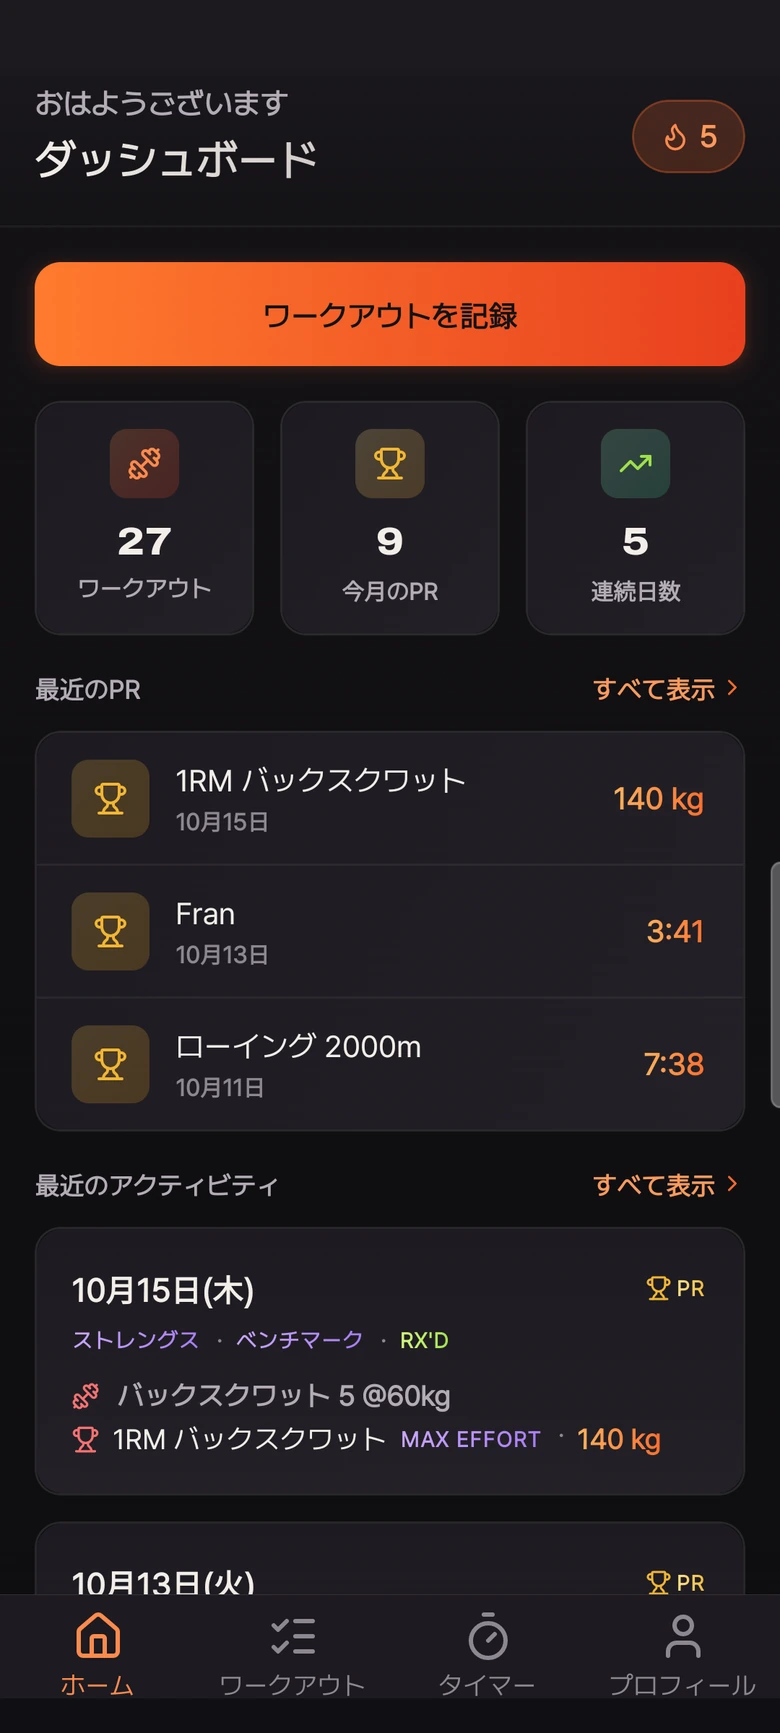
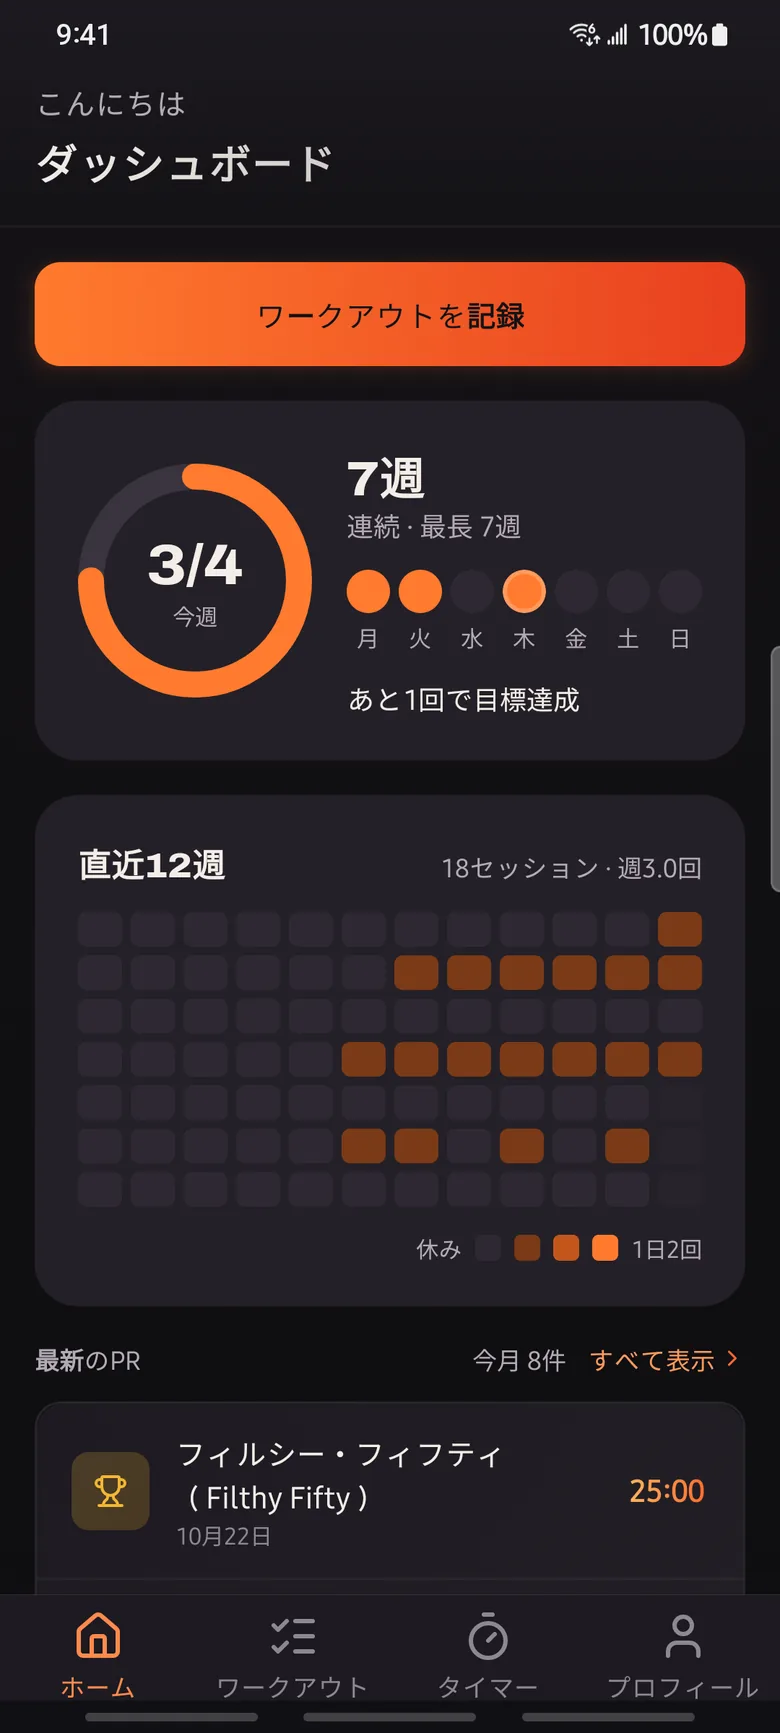
Site: Log Workout rename, cards for the features that shipped, new screens (#3)
* site: Log Workout rename (app 911); feature cards for lift goals, body weight, % of 1RM, data files, crash reports + Erase, movement icons; new home / timer / PR Book screens (smida 699)

Claude-Session: https://claude.ai/code/session_01WsQYTr48SZW4wHBP9qM4uf

* fix: PR 3 review: reword the Your call crash-report line (en/ja/ko); quick-log screenshots show Log Workout with Helen, alt text says Helen

Claude-Session: https://claude.ai/code/session_01WsQYTr48SZW4wHBP9qM4uf

---------

diff --git a/src/i18n/ui.ts b/src/i18n/ui.ts
@@ -95,6 +95,12 @@ const en: Dict = {
       { title: 'PR history', body: 'Every lift and every benchmark, with your best result on top.' },
       { title: 'Offline, on your device', body: 'No account, no server. Your log works without signal and stays yours.' },
       { title: 'Share result cards', body: 'Turn a result into a card for your story in one tap.' },
+      { title: 'Lift goals', body: 'Set a target for a lift and see how close your PR is. A lift you have not tested in 6 months gets a retest note.' },
+      { title: 'Body weight', body: 'Log your body weight and follow the trend.' },
+      { title: 'Loads as a % of 1RM', body: "Enter a load as a percentage of a 1RM, even another lift's." },
+      { title: 'Your data, as files', body: 'Export a backup (settings included) or a CSV for a spreadsheet, and save either straight to your phone.' },
+      { title: 'Your call', body: 'You can turn crash reports off in Settings; they never include your workouts. Erase all data wipes everything Smida keeps on the phone.' },
+      { title: 'Movement icons', body: 'Every movement has an icon, so a long workout is easy to scan.' },
       { title: 'English, 日本語, 한국어', body: 'The app and this site in three languages.' },
     ],
   },
@@ -115,12 +121,12 @@ const en: Dict = {
     bug: { title: 'Report a bug', body: 'Include your phone model, the app version and what you tapped right before.', link: 'Send a bug report' },
     faqHeading: 'Common questions',
     faq: [
-      { q: 'Which timers does Smida have?', a: 'For Time (with an optional time cap), AMRAP, EMOM (every minute, or every N:NN such as every 2:30), Tabata and Death By. Each starts with a count-in. When a timer finishes, tap Log Result to open Quick Log with what the timer knows already filled in: your time for For Time, your rounds for AMRAP, the minutes you completed for Death By. EMOM and Tabata open with the score blank for you to enter.' },
+      { q: 'Which timers does Smida have?', a: 'For Time (with an optional time cap), AMRAP, EMOM (every minute, or every N:NN such as every 2:30), Tabata and Death By. Each starts with a count-in. When a timer finishes, tap Log Result to open Log Workout with what the timer knows already filled in: your time for For Time, your rounds for AMRAP, the minutes you completed for Death By. EMOM and Tabata open with the score blank for you to enter.' },
       { q: "Why isn't my result counting as a PR?", a: 'A workout PR only comes from a result linked to a benchmark or a saved workout. If you logged it without a link, open the session, tap Edit, choose the workout and save: it then counts toward your PR Book. Team results (Team of 2 or 3) are kept out of your solo PRs. Lift PRs come straight from the sets you log.' },
       { q: 'What do RX+, RX and Scaled mean here?', a: "They're the scale you did the workout at. RX is as prescribed; RX+ is heavier or harder; Scaled is anything adjusted down. PRs are kept separately for each scale." },
       { q: 'Can I edit or delete a session?', a: 'Yes. Open the session from Home or All Activity, then tap Edit to change it, or Delete Session at the bottom to remove it.' },
-      { q: 'How do I delete my account or my data?', a: "There is no account. Your data lives only on your phone and is never sent to a server, so deleting the app deletes it. Backup files you exported are yours: they stay wherever you saved them until you delete them." },
-      { q: 'How do I back up or move my data?', a: 'Export a backup file from the app and save it wherever you like, for example your own cloud drive. Import that file on your new phone.' },
+      { q: 'How do I delete my account or my data?', a: "There is no account. Your data lives only on your phone and is never sent to a server, so deleting the app deletes it. To wipe it and keep the app, use Settings → Erase all data. Backup files you exported are yours: they stay wherever you saved them until you delete them." },
+      { q: 'How do I back up or move my data?', a: 'Export a backup file from the app (your settings come with it) and save it wherever you like, for example your own cloud drive. Import that file on your new phone.' },
       { q: 'How do I join the beta?', a: 'Email <a href="mailto:hello@smida.fit?subject=Smida%20beta">hello@smida.fit</a> and tell us whether you use iPhone or Android. The beta starts at our own box.' },
     ],
   },
@@ -132,11 +138,11 @@ const en: Dict = {
     joinNote: 'iPhone and Android · Tell us which one you use.',
     screensLabel: 'App screens',
     shots: 'Screens from the current build',
-    chips: { home: 'Home', timer: 'Timer', 'quick-log': 'Quick Log', prbook: 'PR Book', open: 'Open' },
+    chips: { home: 'Home', timer: 'Timer', 'quick-log': 'Log Workout', prbook: 'PR Book', open: 'Open' },
     alt: {
-      home: 'Smida home screen: Log Workout, recent PRs and recent activity',
+      home: 'Smida home screen: Log Workout, the weekly goal and streak, the last 12 weeks and latest PRs',
       timer: 'The AMRAP timer running, with the round counter',
-      'quick-log': 'Quick Log for Fran: movements, scale and score',
+      'quick-log': 'Log Workout for Helen: movements, scale and score',
       prbook: 'The PR Book: lifts with their best loads',
       open: 'Open workouts grouped by year, with scores',
     },
@@ -147,7 +153,7 @@ const en: Dict = {
         tags: [{ t: 'For Time', g: 'time' }, { t: 'AMRAP', g: 'amrap' }, { t: 'EMOM', g: 'emom' }, { t: 'Tabata', g: 'tabata' }, { t: 'Death By' }],
       },
       {
-        key: 'quick-log', kicker: '02 · Quick Log', title: 'Log it before the chalk dries.',
+        key: 'quick-log', kicker: '02 · Log Workout', title: 'Log it before the chalk dries.',
         body: 'Score, scale and status in a few taps: RX+, RX or Scaled, with your loads and notes. Link the result to a benchmark and it counts toward your PRs.',
         tags: [{ t: 'RX+' }, { t: 'RX', g: 'rx' }, { t: 'Scaled' }],
       },
@@ -227,6 +233,12 @@ const ja: Dict = {
       { title: '自己ベストの履歴', body: 'リフトもベンチマークも、いちばん良い記録が一番上に。' },
       { title: 'オフラインで動く', body: 'アカウントもサーバーもなし。電波がなくても使えて、記録は自分の手元に残ります。' },
       { title: '記録カードでシェア', body: 'ワンタップで、結果がストーリー用のカードに。' },
+      { title: 'リフトの目標', body: 'リフトごとに目標を決めれば、自己ベストまであとどれくらいかがわかります。6か月測っていないリフトには、再テストの合図が出ます。' },
+      { title: '体重の記録', body: '体重を記録して、推移を確認できます。' },
+      { title: '1RMの%で重量を', body: '重量は1RMの%で入力できます。別のリフトの1RMを基準にしてもOK。' },
+      { title: 'データはファイルで手元に', body: 'バックアップは設定ごと書き出せます。表計算用のCSVも。どちらもスマホに直接保存できます。' },
+      { title: '決めるのは自分', body: 'クラッシュレポートは設定でオフにできます。ワークアウトの内容は含まれません。「すべてのデータを消去」で、Smidaが端末に残したデータを丸ごと消せます。' },
+      { title: '種目アイコン', body: '種目ごとにアイコンがあるので、長いメニューもひと目で追えます。' },
       { title: '日本語・English・한국어', body: 'アプリもこのサイトも、3つの言語で使えます。' },
     ],
   },
@@ -247,12 +259,12 @@ const ja: Dict = {
     bug: { title: 'バグの報告', body: 'スマホの機種、アプリのバージョン、直前に何をタップしたかを添えてもらえると助かります。', link: 'バグを報告する' },
     faqHeading: 'よくある質問',
     faq: [
-      { q: 'どんなタイマーがありますか？', a: 'For Time（タイムキャップも設定可）、AMRAP、EMOM（毎分のほか「2:30ごと」のような間隔も）、Tabata、デスバイの5種類です。どれもカウントインから始まります。終わったら「結果を記録」をタップすると、タイマーでわかっている分が入力された状態でクイックログが開きます。For Timeはタイム、AMRAPはラウンド数、デスバイはクリアできた分数。EMOMとTabataはスコアが空欄のまま開くので、自分で入力してください。' },
+      { q: 'どんなタイマーがありますか？', a: 'For Time（タイムキャップも設定可）、AMRAP、EMOM（毎分のほか「2:30ごと」のような間隔も）、Tabata、デスバイの5種類です。どれもカウントインから始まります。終わったら「結果を記録」をタップすると、タイマーでわかっている分が入力された状態で「ワークアウトを記録」画面が開きます。For Timeはタイム、AMRAPはラウンド数、デスバイはクリアできた分数。EMOMとTabataはスコアが空欄のまま開くので、自分で入力してください。' },
       { q: '結果が自己ベストにならないのはなぜ？', a: 'WODの自己ベストになるのは、ベンチマークか保存したワークアウトにリンクした結果だけです。リンクせずに記録したときは、セッションを開いて「編集」をタップし、ワークアウトを選んで保存してください。そこからPRブックに反映されます。チーム（2人・3人）での結果は、個人の自己ベストには含まれません。リフトの自己ベストは、記録したセットからそのまま計算されます。' },
       { q: 'RX+・RX・スケールの違いは？', a: 'そのWODをどの強度でやったかを表します。RXは指定どおり、RX+は指定より重い・難しい内容、スケールは重量や動きを調整した場合です。自己ベストはスケールごとに別々に残ります。' },
       { q: 'セッションを編集・削除するには？', a: 'ホームか「すべてのアクティビティ」からセッションを開き、「編集」で修正できます。消したいときは、画面のいちばん下にある「セッションを削除」から。' },
-      { q: 'アカウントやデータを削除したい', a: 'Smidaにはアカウントがありません。データはスマホの中にしかなく、どこかのサーバーに送られることもないので、アプリを削除すればデータも一緒に消えます。書き出したバックアップファイルはご自身で保存したものなので、不要になったらそのファイルを削除してください。' },
-      { q: 'バックアップや機種変更は？', a: 'アプリからバックアップファイルを書き出して、好きな場所（自分のクラウドストレージなど）に保存しておきます。新しいスマホでそのファイルを読み込めば、元どおりです。' },
+      { q: 'アカウントやデータを削除したい', a: 'Smidaにはアカウントがありません。データはスマホの中にしかなく、どこかのサーバーに送られることもないので、アプリを削除すればデータも一緒に消えます。アプリは残してデータだけ消したいときは、設定の「すべてのデータを消去」から。書き出したバックアップファイルはご自身で保存したものなので、不要になったらそのファイルを削除してください。' },
+      { q: 'バックアップや機種変更は？', a: 'アプリからバックアップファイル（設定も含みます）を書き出して、好きな場所（自分のクラウドストレージなど）に保存しておきます。新しいスマホでそのファイルを読み込めば、元どおりです。' },
       { q: 'ベータに参加するには？', a: '<a href="mailto:hello@smida.fit?subject=Smida%20beta">hello@smida.fit</a> に、iPhoneとAndroidのどちらを使っているかを書いて送ってください。ベータは、まず開発者が通うボックスから始めています。' },
     ],
   },
@@ -264,11 +276,11 @@ const ja: Dict = {
     joinNote: 'iPhone / Android · お使いの機種をひと言添えてください',
     screensLabel: 'アプリの画面',
     shots: '開発中ビルドの実際の画面',
-    chips: { home: 'ホーム', timer: 'タイマー', 'quick-log': 'クイックログ', prbook: 'PRブック', open: 'オープン' },
+    chips: { home: 'ホーム', timer: 'タイマー', 'quick-log': 'ワークアウトを記録', prbook: 'PRブック', open: 'オープン' },
     alt: {
-      home: 'Smidaのホーム画面。ワークアウトの記録ボタン、最近の自己ベスト、最近のアクティビティが並ぶ',
+      home: 'Smidaのホーム画面。ワークアウトの記録ボタン、週の目標と連続記録、直近12週、最近の自己ベストが並ぶ',
       timer: 'ラウンド数をカウントしながら進むAMRAPタイマー',
-      'quick-log': 'Franのクイックログ。種目、スケール、スコアを入力する画面',
+      'quick-log': 'Helenのワークアウトを記録する画面。種目、スケール、スコアを入力',
       prbook: 'PRブック。リフトごとのベスト重量の一覧',
       open: '年ごとにまとまったオープンのワークアウトとスコア',
     },
@@ -279,7 +291,7 @@ const ja: Dict = {
         tags: [{ t: 'For Time', g: 'time' }, { t: 'AMRAP', g: 'amrap' }, { t: 'EMOM', g: 'emom' }, { t: 'Tabata', g: 'tabata' }, { t: 'Death By' }],
       },
       {
-        key: 'quick-log', kicker: '02 · クイックログ', title: '息が整う前に、記録完了。',
+        key: 'quick-log', kicker: '02 · ワークアウトを記録', title: '息が整う前に、記録完了。',
         body: 'スコア、スケール、ステータスは数タップで。RX+・RX・スケールを選んで、重量やメモも残せます。ベンチマークにリンクすれば、そのまま自己ベストの対象に。',
         tags: [{ t: 'RX+' }, { t: 'RX', g: 'rx' }, { t: 'スケール' }],
       },
@@ -358,6 +370,12 @@ const ko: Dict = {
       { title: 'PR 히스토리', body: '리프트든 벤치마크든, 최고 기록이 맨 위에 옵니다.' },
       { title: '오프라인에서도 그대로', body: '계정도 서버도 없습니다. 신호가 없어도 작동하고, 기록은 내 손에 남습니다.' },
       { title: '기록 카드 공유', body: '탭 한 번이면 결과가 스토리용 카드가 됩니다.' },
+      { title: '리프트 목표', body: '리프트마다 목표를 정하면 PR까지 얼마나 남았는지 보입니다. 6개월 동안 측정하지 않은 리프트에는 재측정 알림이 뜹니다.' },
+      { title: '체중 기록', body: '체중을 기록하고 추이를 확인합니다.' },
+      { title: '1RM의 %로 무게 입력', body: '무게를 1RM의 %로 입력할 수 있습니다. 다른 리프트의 1RM을 기준으로 해도 됩니다.' },
+      { title: '데이터는 파일로', body: '백업은 설정까지 함께 내보내고, 스프레드시트용 CSV도 만들 수 있습니다. 둘 다 휴대폰에 바로 저장됩니다.' },
+      { title: '선택은 내가', body: '오류 보고서는 설정에서 끌 수 있어요. 운동 기록은 포함되지 않아요. ‘모든 데이터 삭제’를 누르면 Smida가 휴대폰에 남긴 데이터를 한 번에 지워요.' },
+      { title: '동작 아이콘', body: '동작마다 아이콘이 있어 긴 와드도 한눈에 읽힙니다.' },
       { title: '한국어·English·日本語', body: '앱도, 이 사이트도 3개 언어로 쓸 수 있습니다.' },
     ],
   },
@@ -378,12 +396,12 @@ const ko: Dict = {
     bug: { title: '버그 제보', body: '기종, 앱 버전, 문제가 생기기 직전에 누른 버튼을 함께 적어 주시면 큰 도움이 됩니다.', link: '버그 제보하기' },
     faqHeading: '자주 묻는 질문',
     faq: [
-      { q: '어떤 타이머가 있나요?', a: 'For Time(타임캡 설정 가능), AMRAP, EMOM(매분, 또는 2:30마다 같은 간격), Tabata, 데스 바이까지 5가지입니다. 모두 카운트다운으로 시작합니다. 타이머가 끝나면 ‘결과 기록’을 누르세요. 타이머가 아는 값이 미리 채워진 채로 퀵 로그가 열립니다. For Time은 시간, AMRAP은 라운드 수, 데스 바이는 완료한 분 수가 들어갑니다. EMOM과 Tabata는 점수 칸이 비어 있으니 직접 입력하면 됩니다.' },
+      { q: '어떤 타이머가 있나요?', a: 'For Time(타임캡 설정 가능), AMRAP, EMOM(매분, 또는 2:30마다 같은 간격), Tabata, 데스 바이까지 5가지입니다. 모두 카운트다운으로 시작합니다. 타이머가 끝나면 ‘결과 기록’을 누르세요. 타이머가 아는 값이 미리 채워진 채로 ‘운동 기록’ 화면이 열립니다. For Time은 시간, AMRAP은 라운드 수, 데스 바이는 완료한 분 수가 들어갑니다. EMOM과 Tabata는 점수 칸이 비어 있으니 직접 입력하면 됩니다.' },
       { q: '왜 제 기록이 PR로 잡히지 않나요?', a: '와드 PR은 벤치마크나 저장한 운동에 연결된 결과만 인정됩니다. 연결 없이 기록했다면 세션을 열고 ‘편집’을 눌러 운동을 고른 뒤 저장하세요. 그때부터 PR 북에 반영됩니다. 팀(2인·3인) 기록은 개인 PR에 들어가지 않습니다. 리프트 PR은 기록한 세트에서 바로 계산됩니다.' },
       { q: 'RX+, RX, 스케일은 무슨 뜻인가요?', a: '그 와드를 어떤 강도로 했는지를 나타냅니다. RX는 처방 그대로, RX+는 처방보다 무겁거나 어렵게, 스케일은 무게나 동작을 조절한 경우입니다. PR은 스케일별로 따로 남습니다.' },
       { q: '세션을 수정하거나 지우려면요?', a: '홈이나 ‘전체 활동’에서 세션을 열고 ‘편집’을 누르면 수정할 수 있습니다. 지우려면 화면 맨 아래 ‘세션 삭제’를 누르세요.' },
-      { q: '계정이나 데이터는 어떻게 삭제하나요?', a: 'Smida에는 계정이 없습니다. 데이터는 휴대폰 안에만 있고 어떤 서버로도 전송되지 않기 때문에, 앱을 삭제하면 데이터도 함께 지워집니다. 내보낸 백업 파일은 직접 저장해 둔 파일이니, 필요 없다면 그 파일을 지우면 됩니다.' },
-      { q: '백업이나 기기 변경은 어떻게 하나요?', a: '앱에서 백업 파일을 내보내 원하는 곳(내 클라우드 드라이브 등)에 보관하세요. 새 휴대폰에서 그 파일을 가져오면 그대로 복원됩니다.' },
+      { q: '계정이나 데이터는 어떻게 삭제하나요?', a: 'Smida에는 계정이 없습니다. 데이터는 휴대폰 안에만 있고 어떤 서버로도 전송되지 않기 때문에, 앱을 삭제하면 데이터도 함께 지워집니다. 앱은 두고 데이터만 지우려면 설정의 ‘모든 데이터 삭제’를 쓰세요. 내보낸 백업 파일은 직접 저장해 둔 파일이니, 필요 없다면 그 파일을 지우면 됩니다.' },
+      { q: '백업이나 기기 변경은 어떻게 하나요?', a: '앱에서 백업 파일(설정 포함)을 내보내 원하는 곳(내 클라우드 드라이브 등)에 보관하세요. 새 휴대폰에서 그 파일을 가져오면 그대로 복원됩니다.' },
       { q: '베타는 어떻게 신청하나요?', a: '<a href="mailto:hello@smida.fit?subject=Smida%20beta">hello@smida.fit</a>으로 iPhone과 Android 중 어떤 기기를 쓰는지 적어서 메일 주세요. 베타는 개발자가 다니는 박스에서 먼저 시작합니다.' },
     ],
   },
@@ -395,11 +413,11 @@ const ko: Dict = {
     joinNote: 'iPhone·Android 지원 · 쓰는 기종을 한 줄 적어 주세요',
     screensLabel: '앱 화면',
     shots: '개발 중인 빌드의 실제 화면',
-    chips: { home: '홈', timer: '타이머', 'quick-log': '퀵 로그', prbook: 'PR 북', open: '오픈' },
+    chips: { home: '홈', timer: '타이머', 'quick-log': '운동 기록', prbook: 'PR 북', open: '오픈' },
     alt: {
-      home: 'Smida 홈 화면: 운동 기록 버튼과 최근 PR, 최근 활동',
+      home: 'Smida 홈 화면: 운동 기록 버튼, 주간 목표와 연속 기록, 최근 12주, 최근 PR',
       timer: '라운드 수를 세며 돌아가는 AMRAP 타이머',
-      'quick-log': 'Fran 퀵 로그 화면: 동작, 스케일, 점수 입력',
+      'quick-log': 'Helen 운동 기록 화면: 동작, 스케일, 점수 입력',
       prbook: '리프트별 최고 무게가 정리된 PR 북',
       open: '연도별로 묶인 오픈 와드와 점수',
     },
@@ -410,7 +428,7 @@ const ko: Dict = {
         tags: [{ t: 'For Time', g: 'time' }, { t: 'AMRAP', g: 'amrap' }, { t: 'EMOM', g: 'emom' }, { t: 'Tabata', g: 'tabata' }, { t: 'Death By' }],
       },
       {
-        key: 'quick-log', kicker: '02 · 퀵 로그', title: '숨 고르기 전에 기록 끝.',
+        key: 'quick-log', kicker: '02 · 운동 기록', title: '숨 고르기 전에 기록 끝.',
         body: '점수, 스케일, 완료 여부를 몇 번의 탭으로. RX+, RX, 스케일 중 하나를 고르고 무게와 메모도 남길 수 있습니다. 벤치마크에 연결하면 바로 PR 집계에 들어갑니다.',
         tags: [{ t: 'RX+' }, { t: 'RX', g: 'rx' }, { t: '스케일' }],
       },
